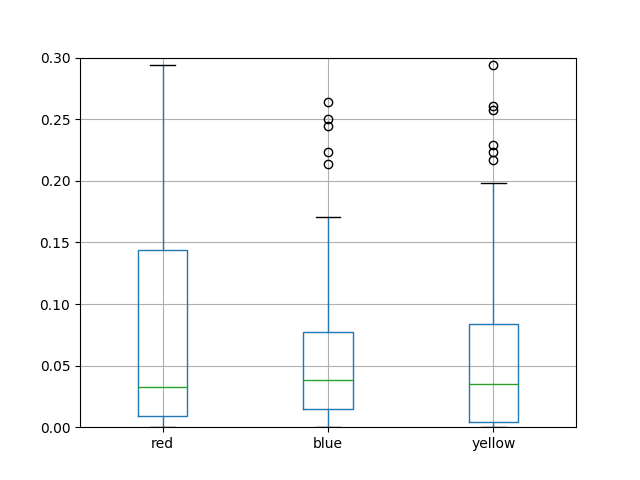
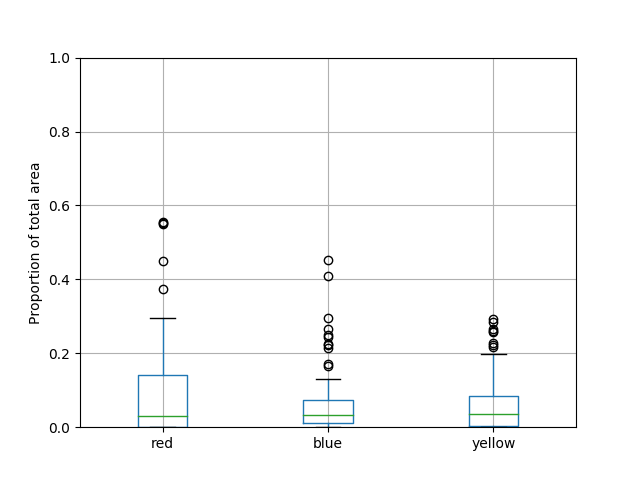
Add Y label

diff --git a/analyze.py b/analyze.py
@@ -58,12 +58,14 @@ colors = ['red','blue','yellow','black', 'white']
 
 print('Rectangles loaded.')
 df = pd.DataFrame(color_distribution_by_area)
-df.boxplot()
+ax = df.boxplot()
+ax.set_ylabel('Proportion of total area')
 plt.savefig(out_dir + '/colors.png')
 plt.close()
 
 axes = df.boxplot(column=['red', 'blue', 'yellow'], return_type='axes')
-axes.set_ylim(0, 0.3)
+axes.set_ylim(0, 1)
+axes.set_ylabel('Proportion of total area')
 plt.savefig(out_dir + '/colors-rby.png')
 plt.close()
 
@@ -74,7 +76,8 @@ print(df['non-colors'].mean()*100, df['non-colors'].std()*100)
 for color in colors:
     print(color, df[color].median()*100)
     print(color, df[color].mean() * 100, df[color].std() * 100)
-df.boxplot(column=['colors', 'non-colors'])
+ax = df.boxplot(column=['colors', 'non-colors'])
+ax.set_ylabel('Proportion of total area')
 plt.savefig(out_dir + '/colors-non-colors.png')
 plt.close()
 
